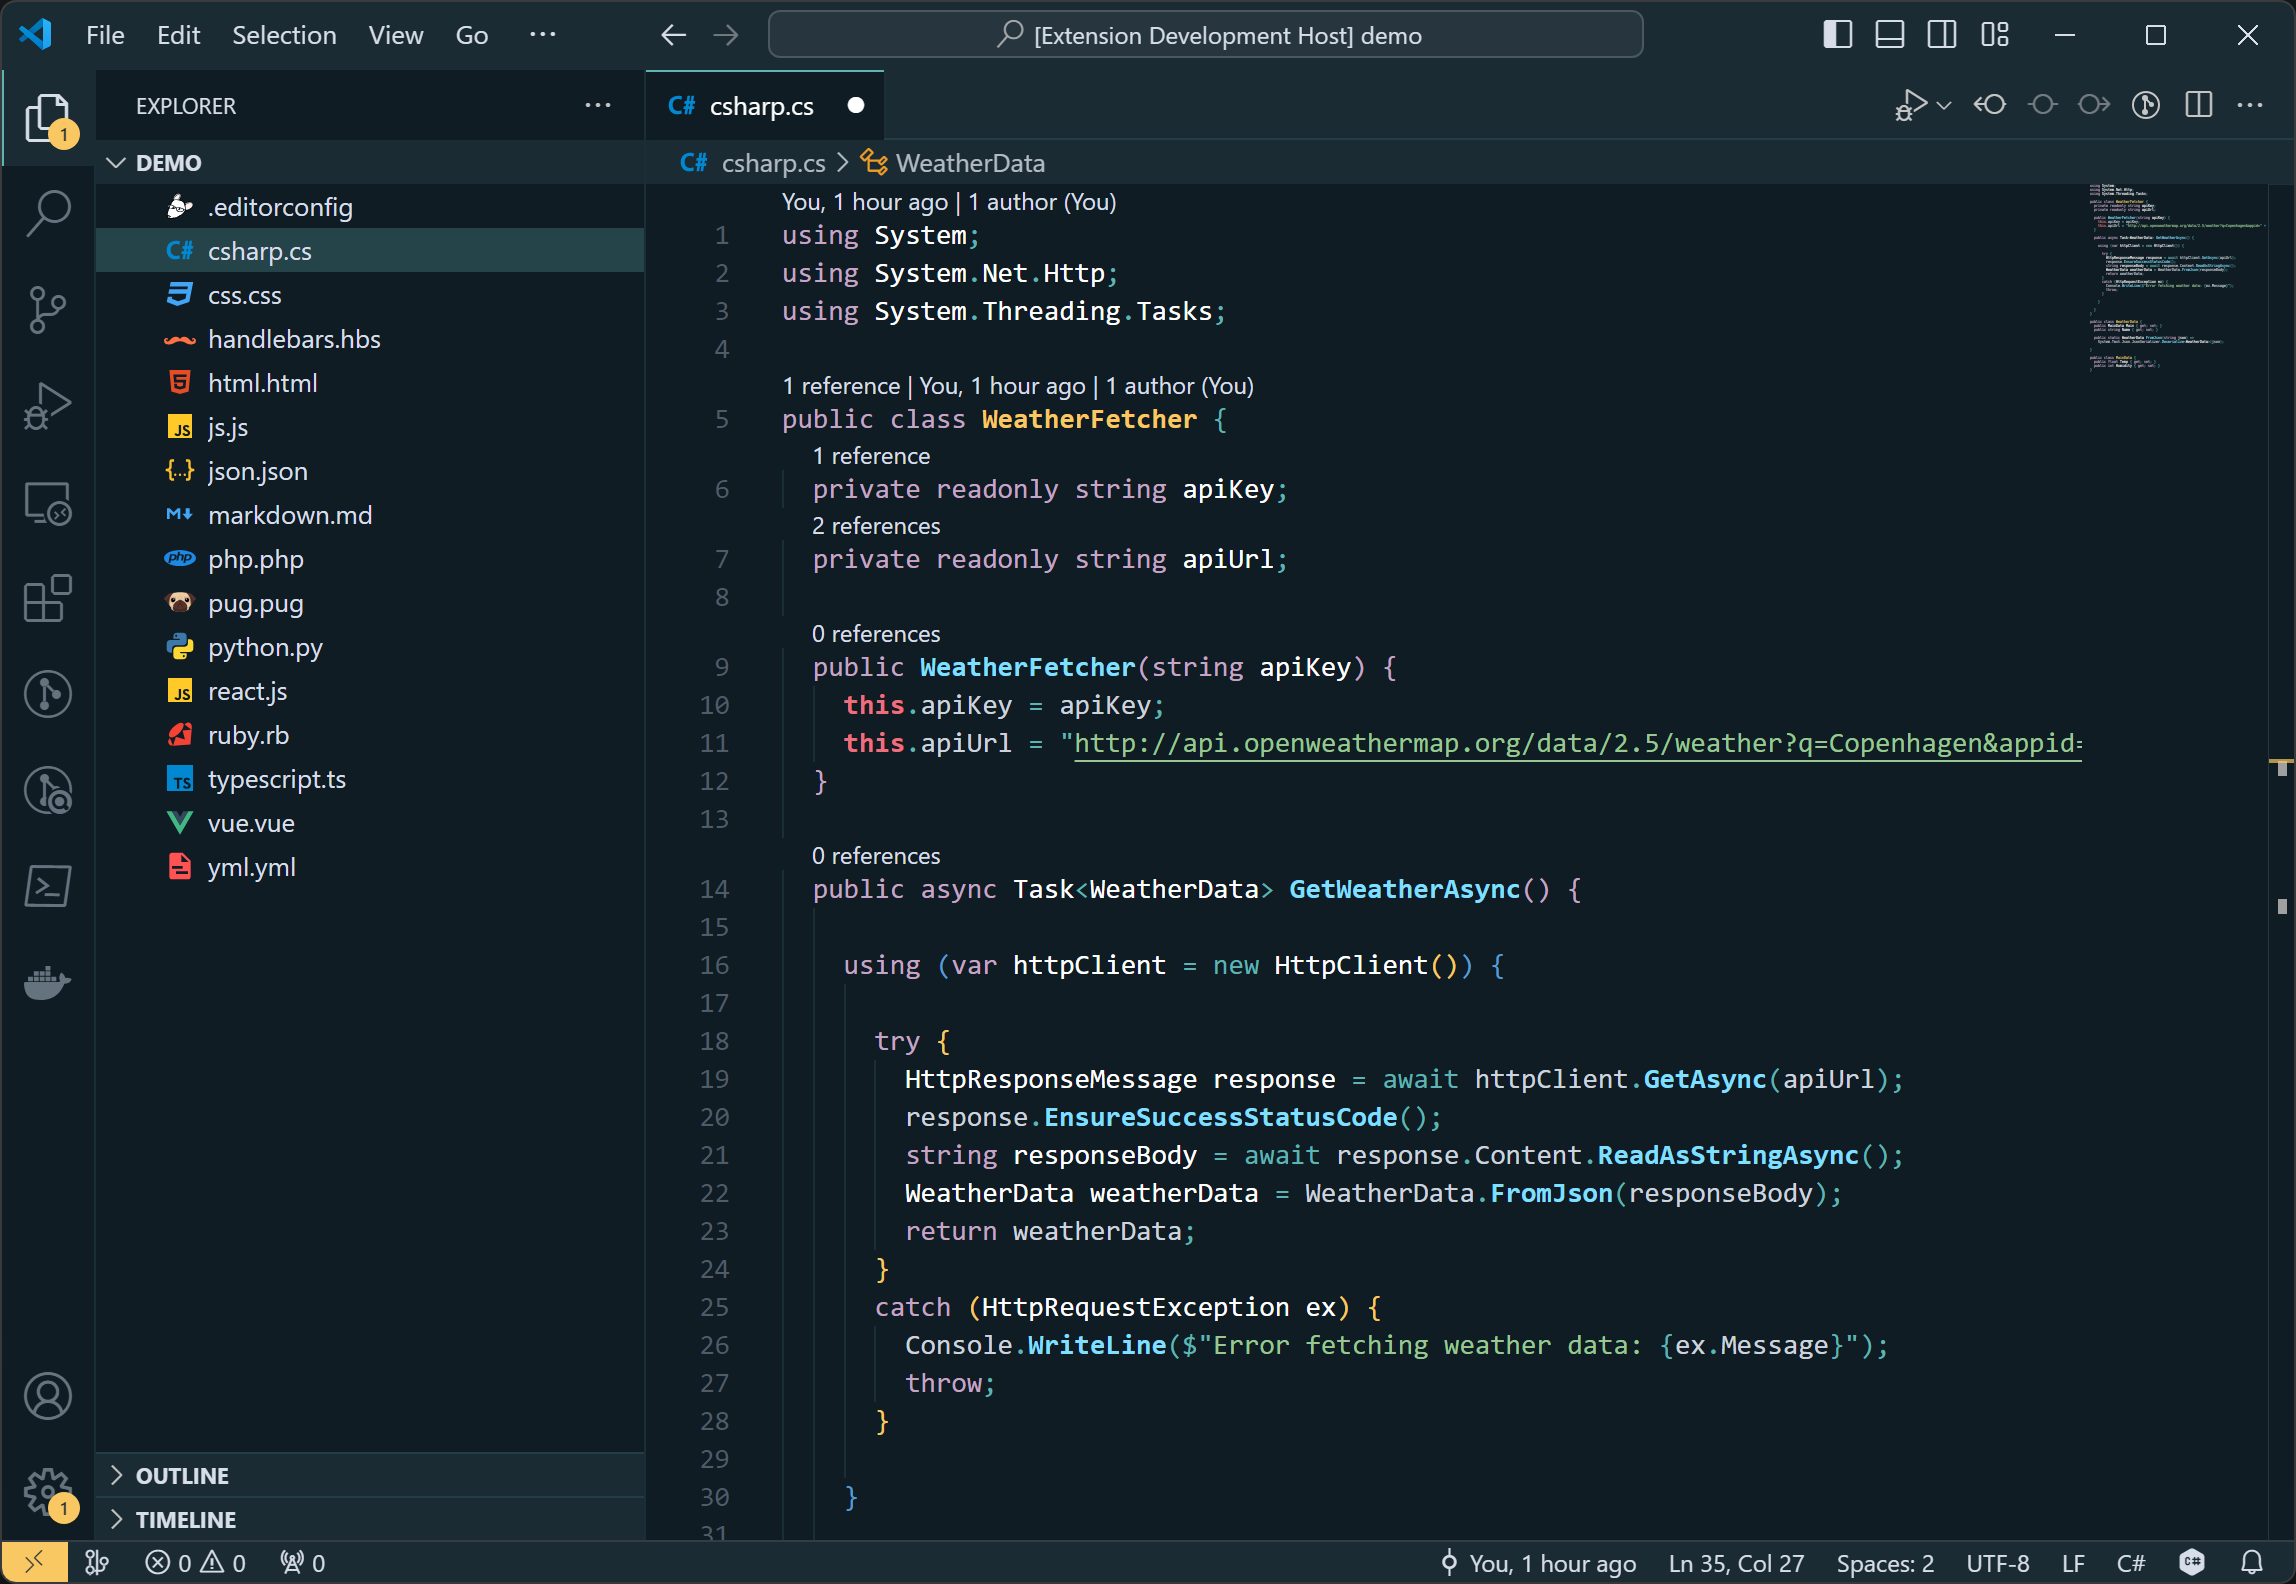
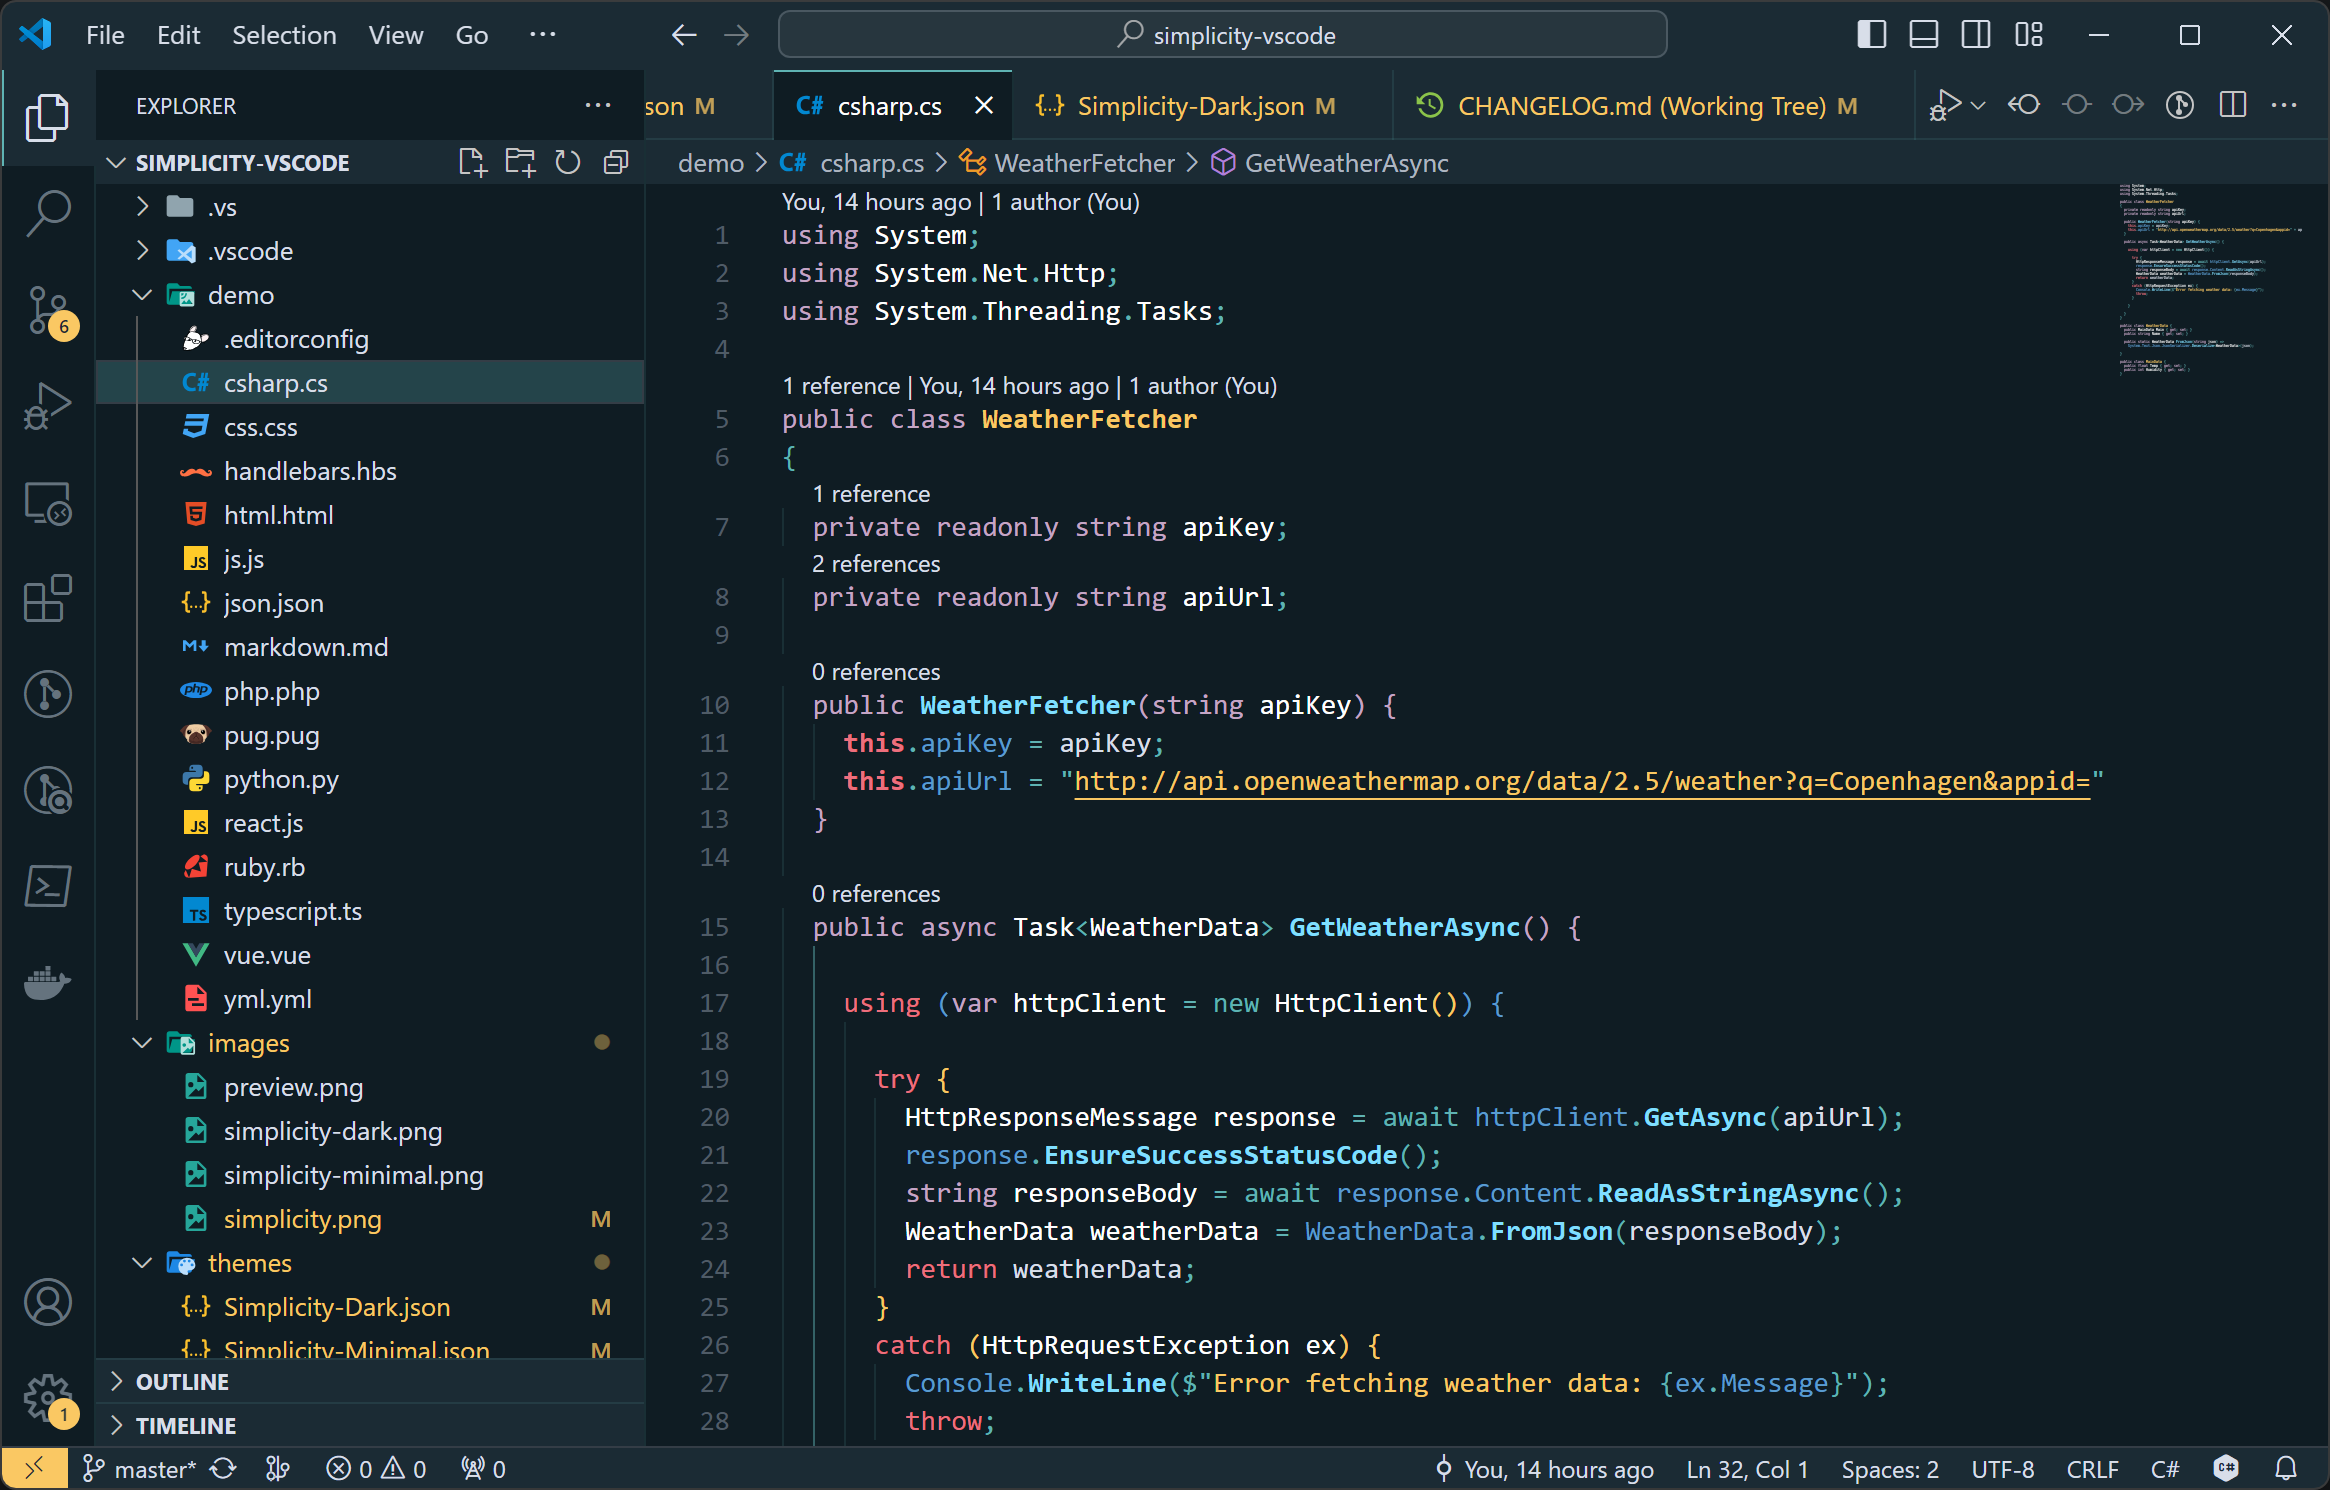
Adjustments to C# and .json coloring

diff --git a/CHANGELOG.md b/CHANGELOG.md
@@ -1,11 +1,13 @@
 # Change Log
 
-### [0.0.3] - 2024-04-04
+### [0.1.1] - 2024-04-04
 Minor adjustments.
 - Lighter font for inactive items in sidebar and tabs.
 - Brighter font for methods
+- Variable color changed to blue
 - Method and class names are now bold
 - Fixed image paths in ReadMe.md
+- Additional coloring specific to C# and JSON, eg. to better distinguish variables from properties 
 
 
 ### [0.0.1] - 2024-04-04
